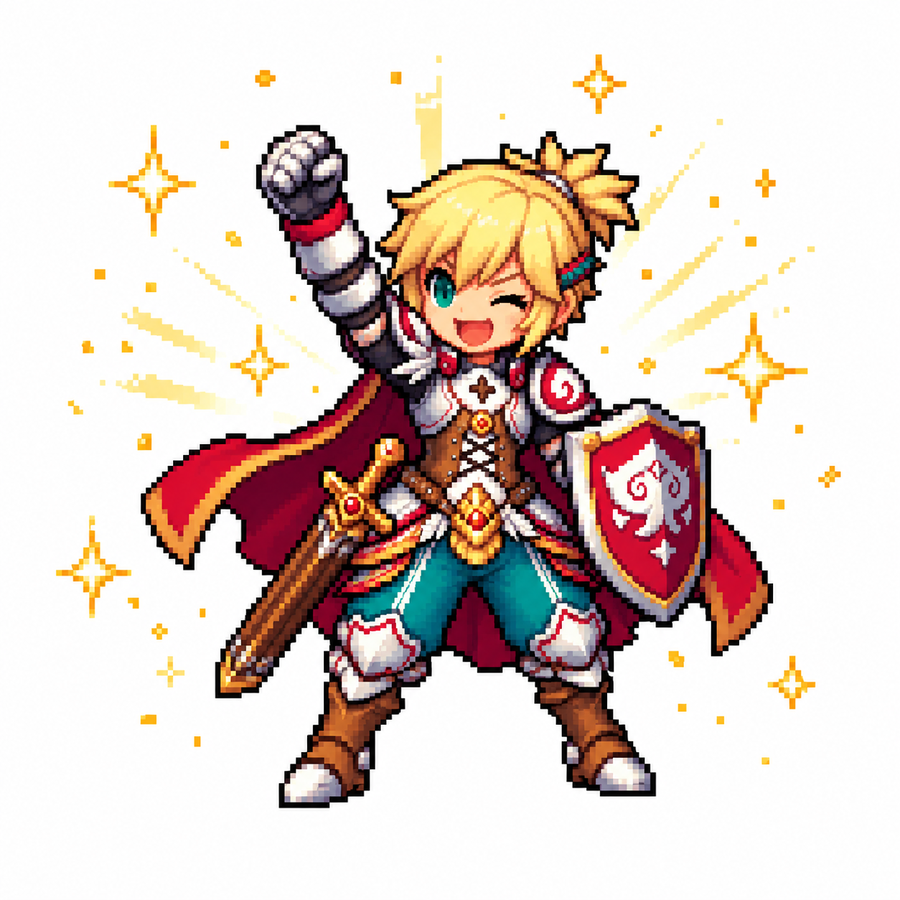
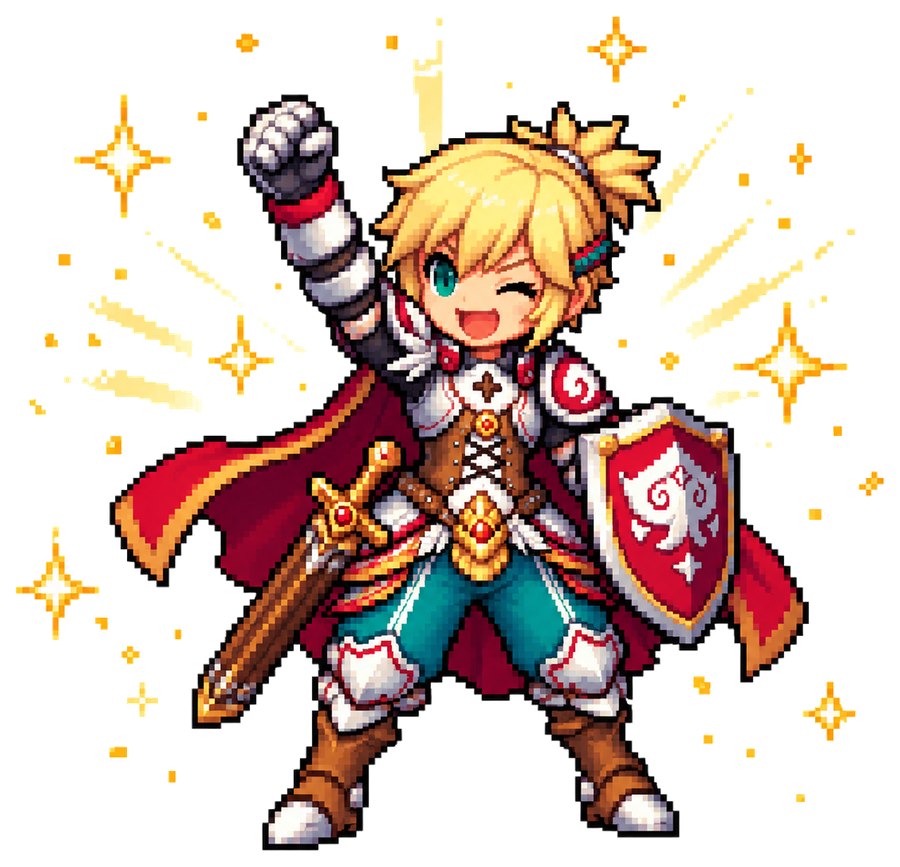
แก้พื้นหลังทึบที่ตัดไม่หมดในภาพ Warrior 3 ท่า + ขยับ Warrior เข้าซ้ายอีกนิด
- attack.png, proud.png, victory-slime.png: ต้นฉบับทั้ง 3 มีพื้นหลังทึบ
  (ขาว/ขาวอมเทา) ที่ alpha channel ไม่ได้ตัดออกจริง (ครอปแค่ตาม bbox เดิม
  ไม่ช่วยเพราะพื้นหลังเต็มขอบภาพพอดี) ใช้ flood-fill ไล่จากมุมภาพลบพื้นหลัง
  ที่เชื่อมถึงขอบออกจริง เช็คครบทุกไฟล์ (mage 7 ไฟล์ + warrior 6 ไฟล์ +
  ไฟล์เดิม 2 ไฟล์) ยืนยันว่าไม่มีพื้นหลังทึบเหลือหลุดแล้ว
- .warrior-mount: ดึงเข้าซ้ายอีกนิดตามฟีดแบ็ก (right offset น้อยลง)

diff --git a/src/App.jsx b/src/App.jsx
@@ -536,12 +536,14 @@ export default function App() {
            wide (an unbounded real balance, not a fixed-width label), so on a narrow phone with a
            long number it's possible for the two to overlap; z-index makes sure the number wins
            that overlap and stays fully readable rather than the mascot covering digits. */
-        .warrior-mount { position: absolute; bottom: 6px; right: -16px; z-index: 0; }
+        .warrior-mount { position: absolute; bottom: 6px; right: -10px; z-index: 0; }
+        /* Fourth pass (2026-08-11) — ป้อ's feedback after the bottom-anchor fix: still needs to
+           come in toward the left a bit (right offset less negative = less overlap). */
         @media (max-width: 1279px) {
-          .warrior-mount { right: -36px; }
+          .warrior-mount { right: -22px; }
         }
         @media (min-width: 1280px) {
-          .warrior-mount { right: -28px; }
+          .warrior-mount { right: -16px; }
         }
 
         /* WarriorMascot.jsx's own <img> size: clamp() shrinks it with the viewport so it stays
